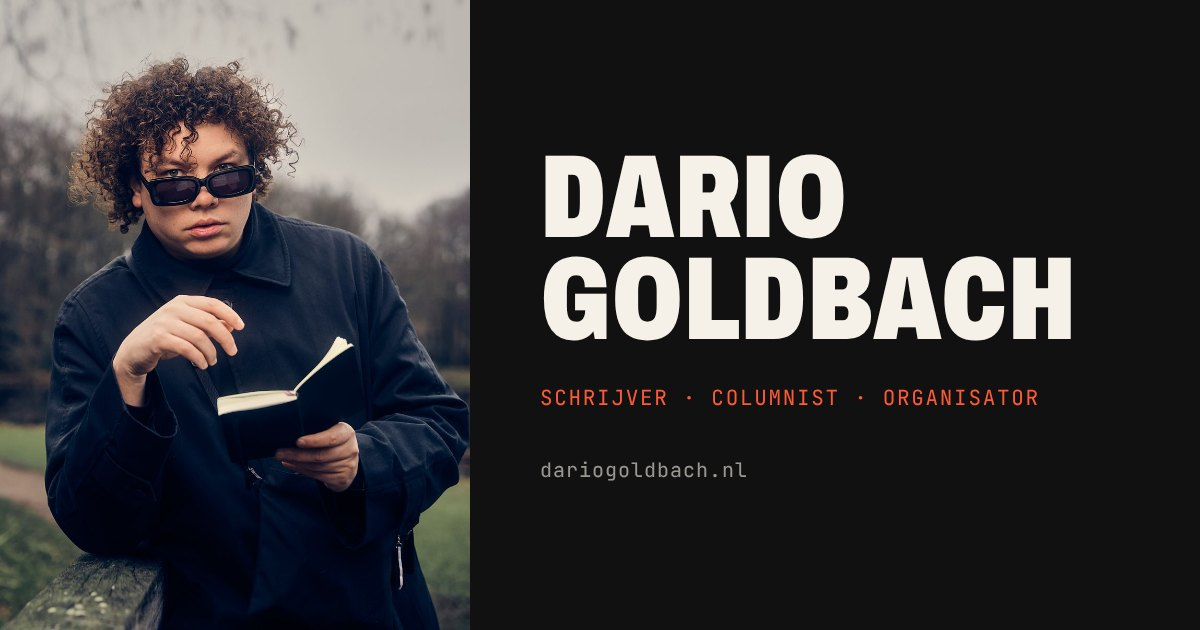
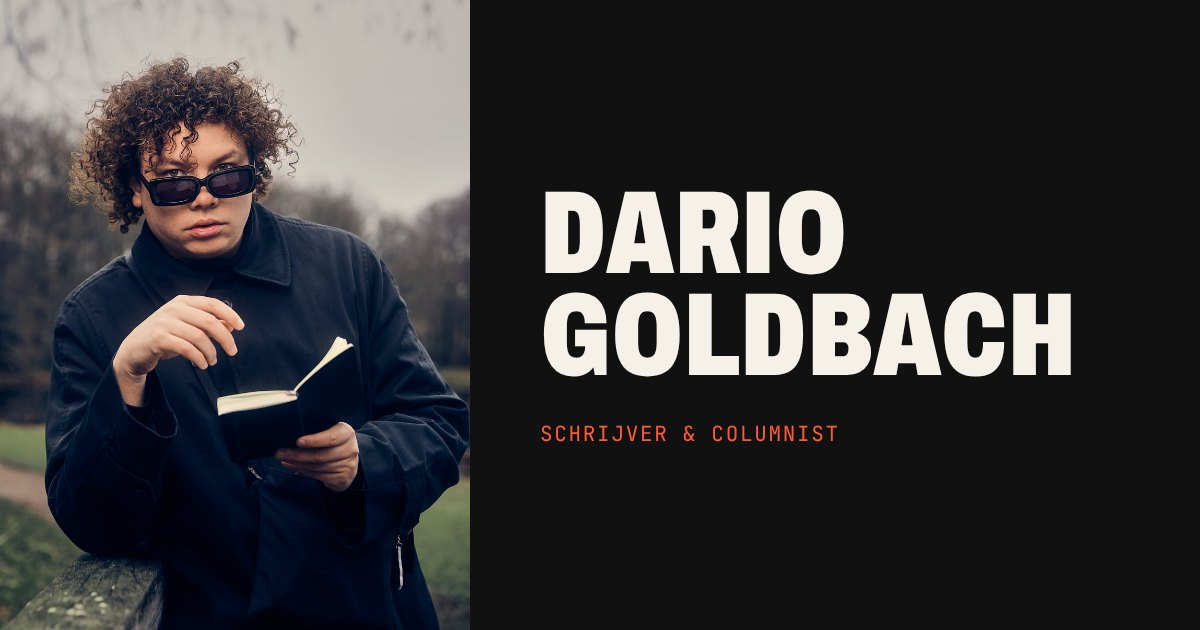
Deelplaatje: Schrijver & Columnist, zonder url
Claude-Session: https://claude.ai/code/session_01Xyv8xKMteFkSC66Q3Lwu9u

Changed region(s): [[0.4317, 0.2413, 0.8942, 0.754]]

diff --git a/site/index.html b/site/index.html
@@ -8,7 +8,7 @@
 <meta property="og:type" content="website">
 <meta property="og:site_name" content="Dario Goldbach">
 <meta property="og:title" content="Dario Goldbach">
-<meta property="og:description" content="Schrijver, columnist en organisator. Boeken, podcasts, columns en een spelletje. Swipe alle kanten op.">
+<meta property="og:description" content="Schrijver en columnist. Boeken, podcasts, columns en een spelletje. Swipe alle kanten op.">
 <meta property="og:url" content="https://dariogoldbach.nl/">
 <meta property="og:image" content="https://dariogoldbach.nl/img/og.jpg">
 <meta property="og:image:width" content="1200">
